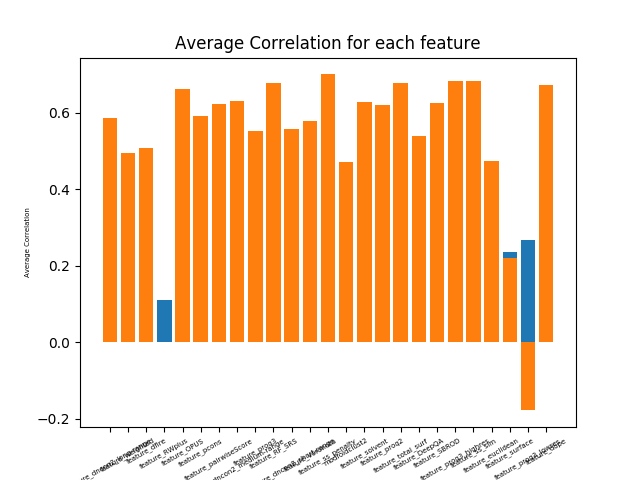
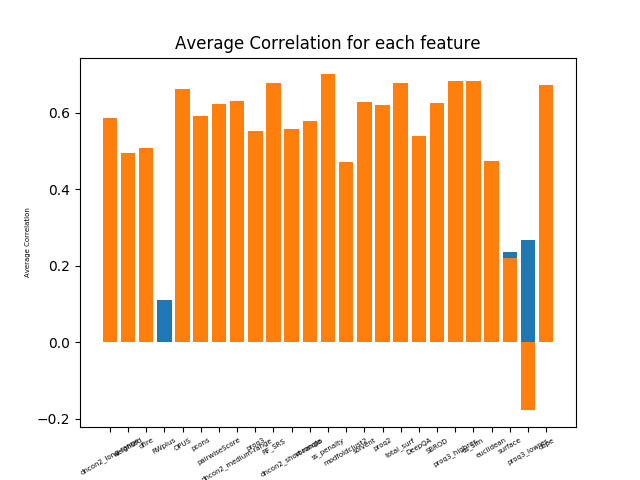
eval feats

Changed region(s): [[0.125, 0.9062, 0.875, 1.0]]

diff --git a/eval_feats_bar_graph.py b/eval_feats_bar_graph.py
@@ -150,7 +150,10 @@ else:
 labels = labels[1:features+1]
 for i in range(len(labels)):
 	s = labels[i]
-	labels[i] = s[(1+s.index(":")):]
+	s = s[(1+s.index(":")):]
+	if "feature_" in s:
+		s = s[s.rfind('feature_')+8:]
+	labels[i] = s
 i = np.arange(len(labels))
 resFolder = sys.argv[2]
 if resFolder.rfind('/') != len(resFolder)-1:
@@ -167,6 +170,7 @@ plt.ylabel('Average Correlation', fontsize = 5)
 plt.xticks(i, labels, fontsize = 5, rotation = 30)
 plt.title('Average Correlation for each feature')
 plt.savefig(resFolder + 'avgC_'+filename+'.png', format = 'png')
-
+print(avgC)
+print(avgL)
 
 
